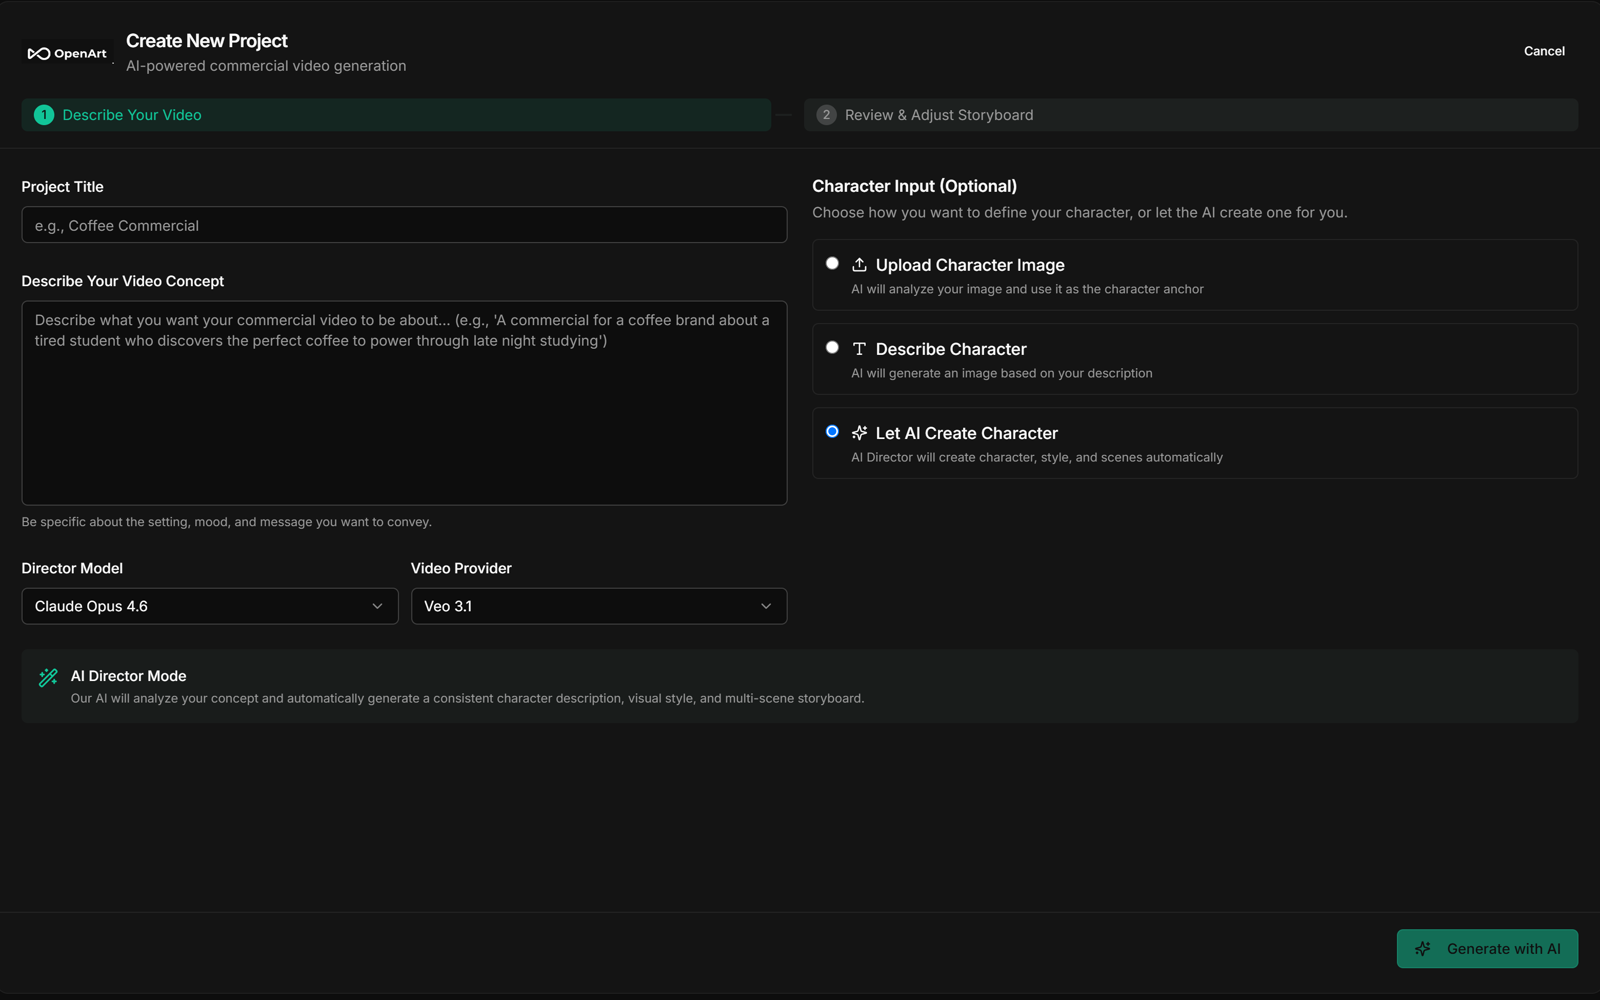
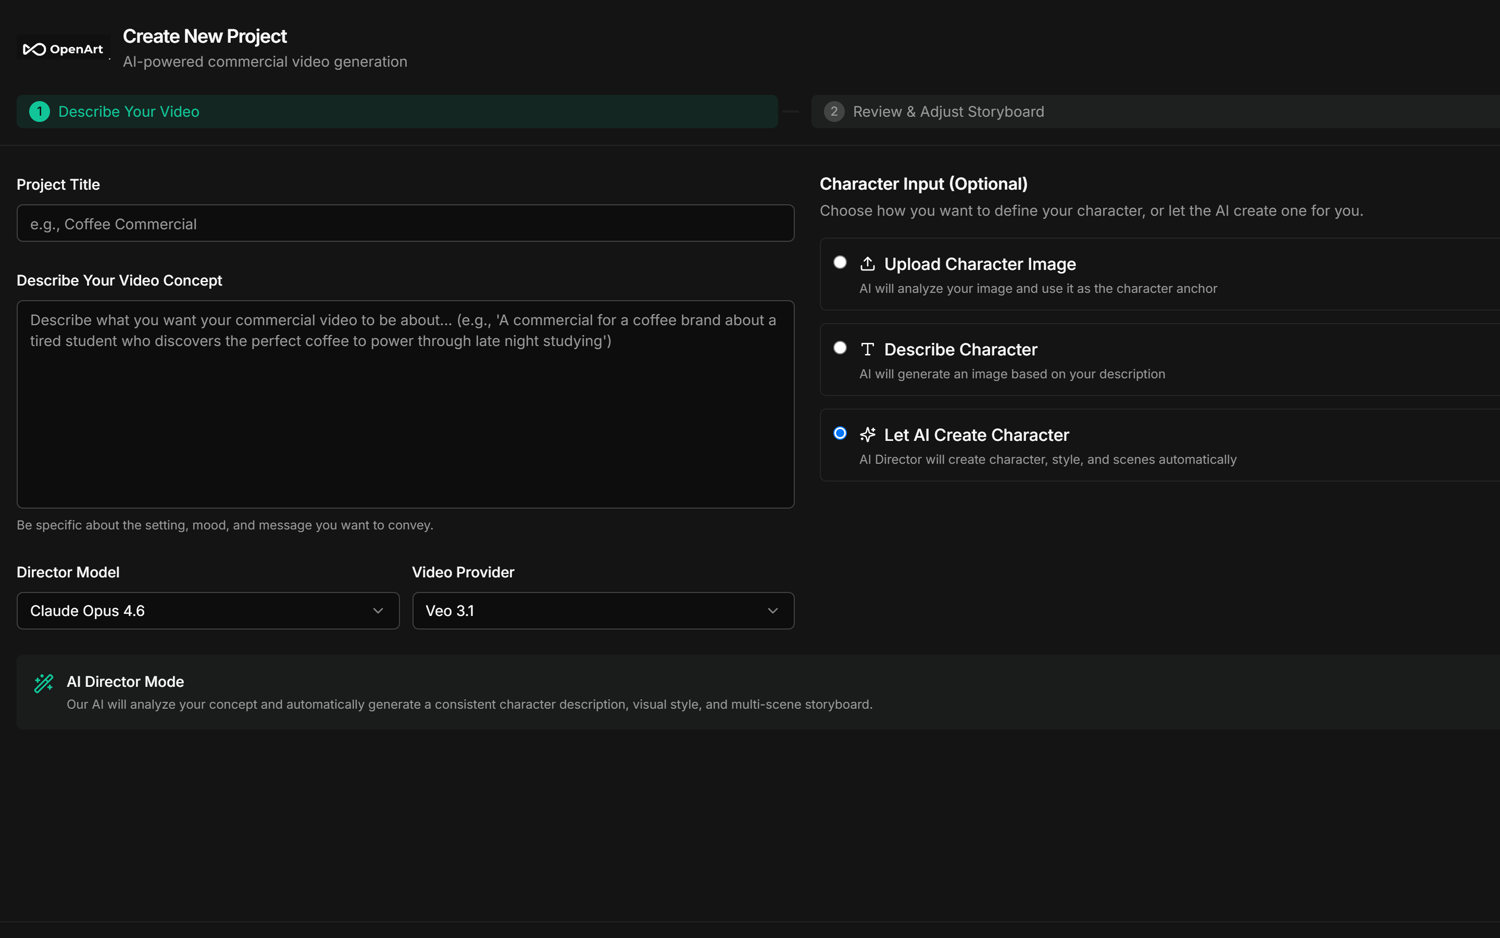
Rewrite the poker card around its evaluation story; uniform card layout
The CS 5100 report reframes this project. The finding worth showing is
not the search, it is that the first benchmark was measuring the wrong
thing: scoring a fold as a loss left the rule-based agent level with
one that never folds over 10,000 hands. Rebuilding evaluation around
chip depletion inverted the ranking (100:0). The corrected numbers
then contradicted the hypothesis - MCTS placed third, behind the
simpler Monte Carlo estimator - and the card says so.

Also corrects attribution: this was a two-person project, not solo.
The diagram drops the invented expected-value figures for unlabelled
relative bars and states rollouts per path rather than a made-up count.

OpenArt returns to the two-column layout so all five cards match, with
the screenshot recropped to the dense region so it stays legible at
half width. Section renamed to "My Work".

diff --git a/index.html b/index.html
@@ -187,19 +187,6 @@ section{padding:clamp(80px,13vh,150px) 0;position:relative}
   .proj:nth-child(even) .proj-media{order:2}
 }
 
-/* first project runs full width — the screenshot deserves the room */
-.proj.feature{grid-template-columns:1fr;gap:clamp(24px,3.4vw,40px)}
-.proj.feature .proj-media{aspect-ratio:16/9.2}
-.proj.feature .proj-body{display:grid;grid-template-columns:1fr 1fr;
-  column-gap:clamp(24px,4vw,56px);row-gap:0;align-items:start}
-.proj.feature .proj-idx,.proj.feature .kicker,.proj.feature h3,
-.proj.feature .role-note,.proj.feature .stack,.proj.feature .golink{grid-column:1 / -1}
-.proj.feature h3{font-size:clamp(2.2rem,5vw,3.6rem);margin-bottom:14px}
-.proj.feature .role-note{margin-bottom:22px}
-.proj.feature .kicker{margin-bottom:8px}
-.proj.feature p{max-width:58ch;margin-bottom:22px}
-.proj.feature .stack{margin-bottom:18px}
-@media(max-width:900px){.proj.feature .proj-body{grid-template-columns:1fr}}
 
 .proj-media{position:relative;border:1px solid var(--line);border-radius:14px;overflow:hidden;
   background:var(--bg-2);aspect-ratio:16/10;display:block}
@@ -508,14 +495,19 @@ footer a:hover{color:var(--accent)}
   <div class="wrap">
     <div class="sec-head rv">
       <span class="sec-num">02</span>
-      <h2 class="sec-title">Selected Work</h2>
+      <h2 class="sec-title">My Work</h2>
       <span class="sec-note">Five things worth showing</span>
     </div>
 
     <div class="work">
 
       <!-- OpenArt -->
-      <article class="proj feature rv">
+      <article class="proj rv">
+        <span class="proj-media">
+          <img src="assets/openart-wizard.png" alt="OpenArt project wizard: video concept, character input mode, director model and video provider selection">
+          <span class="veil"></span>
+          <span class="peek">Private repository</span>
+        </span>
         <div class="proj-body">
           <div class="proj-idx">01 — Client work</div>
           <div class="kicker">LINQ Labs · built for and delivered to OpenArt</div>
@@ -535,11 +527,6 @@ footer a:hover{color:var(--accent)}
           </p>
           <div class="stack"><span>FastAPI</span><span>React · TypeScript</span><span>Gemini / Veo 3.1</span><span>Kling</span><span>Claude</span><span>SSE</span><span>ffmpeg</span><span>GCS</span></div>
         </div>
-        <span class="proj-media">
-          <img src="assets/openart-wizard.png" alt="OpenArt project wizard: video concept, character input mode, director model and video provider selection">
-          <span class="veil"></span>
-          <span class="peek">Private repository</span>
-        </span>
       </article>
 
       <!-- texas hold'em -->
@@ -591,38 +578,50 @@ footer a:hover{color:var(--accent)}
             </g>
 
             <text x="400" y="336" font-family="monospace" font-size="15" fill="#5f5d58" text-anchor="middle">
-              deal the unseen cards · play to showdown · 300× per action
+              deal the unseen cards · play to showdown · hundreds of times per path
             </text>
 
             <!-- returns -->
             <line x1="60" y1="368" x2="740" y2="368" stroke="rgba(255,255,255,.10)"/>
-            <g font-family="monospace" font-size="16" text-anchor="middle">
-              <text x="150" y="402" fill="#5f5d58">avg  −12</text>
-              <text x="400" y="402" fill="#5f5d58">avg  +31</text>
-              <text x="650" y="402" fill="#7dd3c0">avg  +58</text>
-              <text x="650" y="432" fill="#7dd3c0" font-size="14">← take this branch</text>
+            <text x="60" y="392" font-family="monospace" font-size="14" fill="#5f5d58">average chip return</text>
+            <g>
+              <rect x="100" y="404" width="42" height="9" rx="4" fill="rgba(255,255,255,.18)"/>
+              <rect x="350" y="404" width="86" height="9" rx="4" fill="rgba(255,255,255,.28)"/>
+              <rect x="600" y="404" width="128" height="9" rx="4" fill="#7dd3c0"/>
             </g>
+            <text x="650" y="440" font-family="monospace" font-size="15" fill="#7dd3c0" text-anchor="middle">take this branch</text>
           </svg>
           <span class="veil"></span>
           <span class="peek">View repository ↗</span>
         </a>
         <div class="proj-body">
           <div class="proj-idx">02 — AI</div>
-          <div class="kicker">Decision-making under hidden information</div>
-          <h3><a href="https://github.com/maxwell142857/texas_holdem" target="_blank" rel="noopener">Texas Hold'em Agent</a></h3>
+          <div class="kicker">CS 5100 · decision-making under hidden information</div>
+          <h3><a href="https://github.com/maxwell142857/texas_holdem" target="_blank" rel="noopener">Texas Hold'em Agents</a></h3>
+          <div class="role-note">Two-person project · engine, agents and evaluation built from scratch</div>
           <p>
-            Poker is a good problem precisely because you never get to see the whole table. The agent
-            chooses between fold, call and raise by <b>simulating forward</b> from the current state —
-            dealing out the cards it cannot see, playing the hand to showdown a few hundred times per
-            action, and taking the branch with the best average return.
+            Chess is tractable because you can see the board; poker is not. We built a two-player
+            Hold'em engine from the ground up — dealing, blinds, betting rounds, showdown — and put
+            five agents on it: random, never-fold, rule-based, a <b>Monte Carlo hand-strength
+            estimator</b> that samples the unseen cards to price its equity, and an <b>MCTS</b> player
+            that simulates forward along action paths and takes the branch with the best average return.
           </p>
           <p>
-            The part I care about is not the search, it's the <b>measurement</b>. Every version gets
-            played against fixed baselines — a random player, one that never folds, one rule-based —
-            over thousands of hands, both single-round and last-chip-standing. It's the same question
-            I ask about agents at work: did this actually get better, or did it just get different?
+            The real finding was about the <b>benchmark</b>, not the agents. Our first harness scored a
+            fold as a loss, and over <b>10,000 head-to-head hands</b> the rule-based player came out
+            level with one that never folds — a result that cannot be true. The metric was wrong, not
+            the agent: counting folds as losses made disciplined folding invisible. We rebuilt
+            evaluation around chip depletion — 5,000 chips each, play until someone is broke, 100
+            matches — and the ranking inverted. Rule-based beat never-fold <b>100:0</b>.
           </p>
-          <div class="stack"><span>Python</span><span>Monte Carlo tree search</span><span>Rollout evaluation</span><span>Imperfect information</span><span>Baseline benchmarking</span></div>
+          <p>
+            The corrected numbers then refused to agree with our hypothesis. We expected MCTS to win;
+            it finished third, behind the far simpler Monte Carlo estimator. In a game this constrained
+            folding costs little and the rule-based player is hard to punish, so a search that plans
+            several streets ahead has nothing to exploit. Reporting that was more useful than tuning
+            until the results flattered the idea.
+          </p>
+          <div class="stack"><span>Python</span><span>Monte Carlo tree search</span><span>Hand-strength estimation</span><span>Imperfect information</span><span>Benchmark design</span></div>
           <a class="golink" href="https://github.com/maxwell142857/texas_holdem" target="_blank" rel="noopener">
             github.com/maxwell142857/texas_holdem
             <svg viewBox="0 0 16 16" fill="none" stroke="currentColor" stroke-width="1.6"><path d="M4 12L12 4M12 4H6M12 4v6"/></svg>
@@ -1020,8 +1019,8 @@ footer a:hover{color:var(--accent)}
             Coursework ran along three tracks: <b>AI</b>, <b>distributed systems</b>, and
             <b>databases</b>. The AI work ended in a
             <a class="inline" href="https://github.com/maxwell142857/texas_holdem" target="_blank" rel="noopener">Texas Hold'em agent</a>
-            — a Monte Carlo tree search player that estimates equity by rollout and has to act on a hand
-            it cannot see, benchmarked against rule-based and never-fold baselines.
+            — five agents on a poker engine we wrote ourselves, and a benchmark we had to redesign
+            once we noticed the first one was scoring folds as losses.
           </p>
           <p>
             Distributed systems meant building the things rather than reading about them: Paxos across
